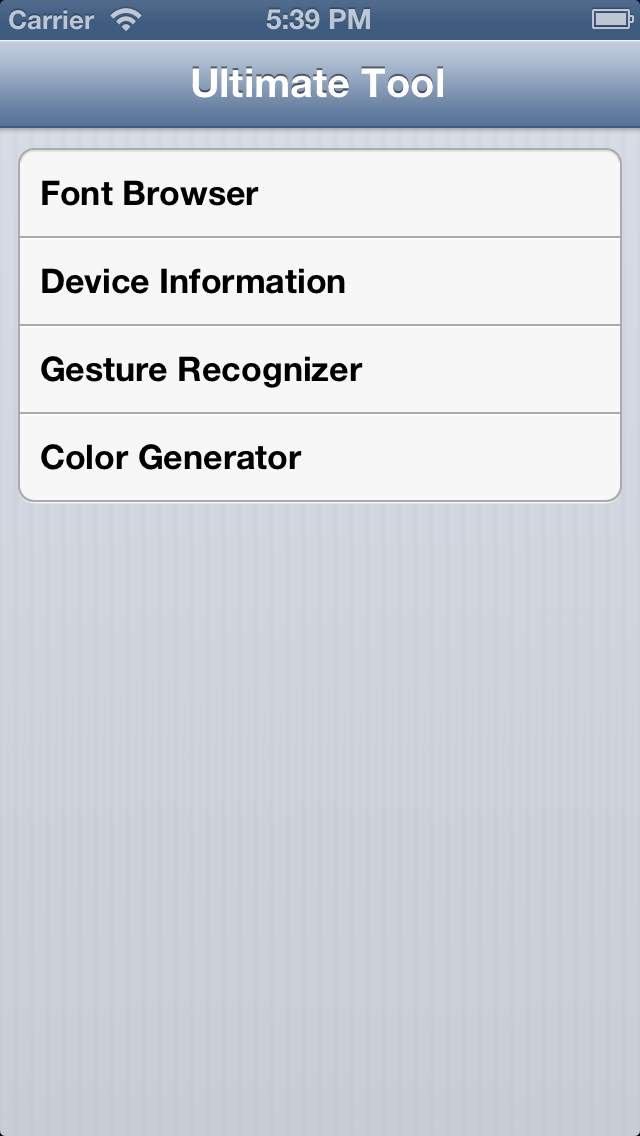
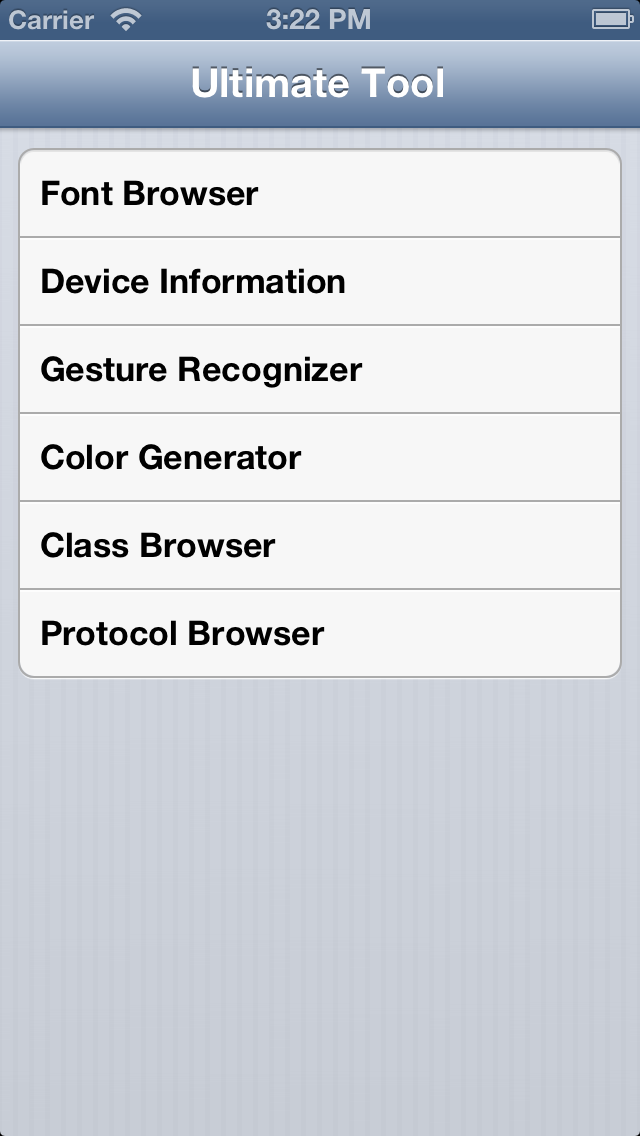
Ultimate Tool 2.0 Final
Submitted to Apple. iOS 6 minimum.

1. Class Browser
2. Protocol Browser

Changed region(s): [[0.0312, 0.4313, 0.9688, 0.6162], [0.4062, 0.0, 0.5, 0.0308]]

diff --git a/UltimateTool/ClassDetail.m b/UltimateTool/ClassDetail.m
@@ -92,7 +92,7 @@ typedef enum
     UITableViewCell *cell = [tableView dequeueReusableCellWithIdentifier:CellIdentifier];
     if (cell == nil) {
         cell = [[UITableViewCell alloc] initWithStyle:UITableViewCellStyleDefault reuseIdentifier:CellIdentifier];
-        [cell.textLabel setMinimumFontSize:MINIMUM_FONT_SIZE];
+        [cell.textLabel setMinimumScaleFactor:MINIMUM_SCALE_FACTOR];
         [cell.textLabel setAdjustsFontSizeToFitWidth:TRUE];
     }
     

diff --git a/UltimateTool/ClassBrowser.m b/UltimateTool/ClassBrowser.m
@@ -79,7 +79,7 @@
     UITableViewCell *cell = [tableView dequeueReusableCellWithIdentifier:CellIdentifier];
     if (cell == nil) {
         cell = [[UITableViewCell alloc] initWithStyle:UITableViewCellStyleDefault reuseIdentifier:CellIdentifier];
-        [cell.textLabel setMinimumFontSize:MINIMUM_FONT_SIZE];
+        [cell.textLabel setMinimumScaleFactor:MINIMUM_SCALE_FACTOR];
         [cell.textLabel setAdjustsFontSizeToFitWidth:TRUE];
     }
     

diff --git a/UltimateTool/ProtocolBrowser.m b/UltimateTool/ProtocolBrowser.m
@@ -76,7 +76,7 @@
     UITableViewCell *cell = [tableView dequeueReusableCellWithIdentifier:CellIdentifier];
     if (cell == nil) {
         cell = [[UITableViewCell alloc] initWithStyle:UITableViewCellStyleDefault reuseIdentifier:CellIdentifier];
-        [cell.textLabel setMinimumFontSize:MINIMUM_FONT_SIZE];
+        [cell.textLabel setMinimumScaleFactor:MINIMUM_SCALE_FACTOR];
         [cell.textLabel setAdjustsFontSizeToFitWidth:TRUE];
     }
     

diff --git a/UltimateTool/Constants.h b/UltimateTool/Constants.h
@@ -10,5 +10,6 @@
 #define UltimateTool_Constants_h
 
 #define MINIMUM_FONT_SIZE   6
+#define MINIMUM_SCALE_FACTOR  0.5
 
 #endif
